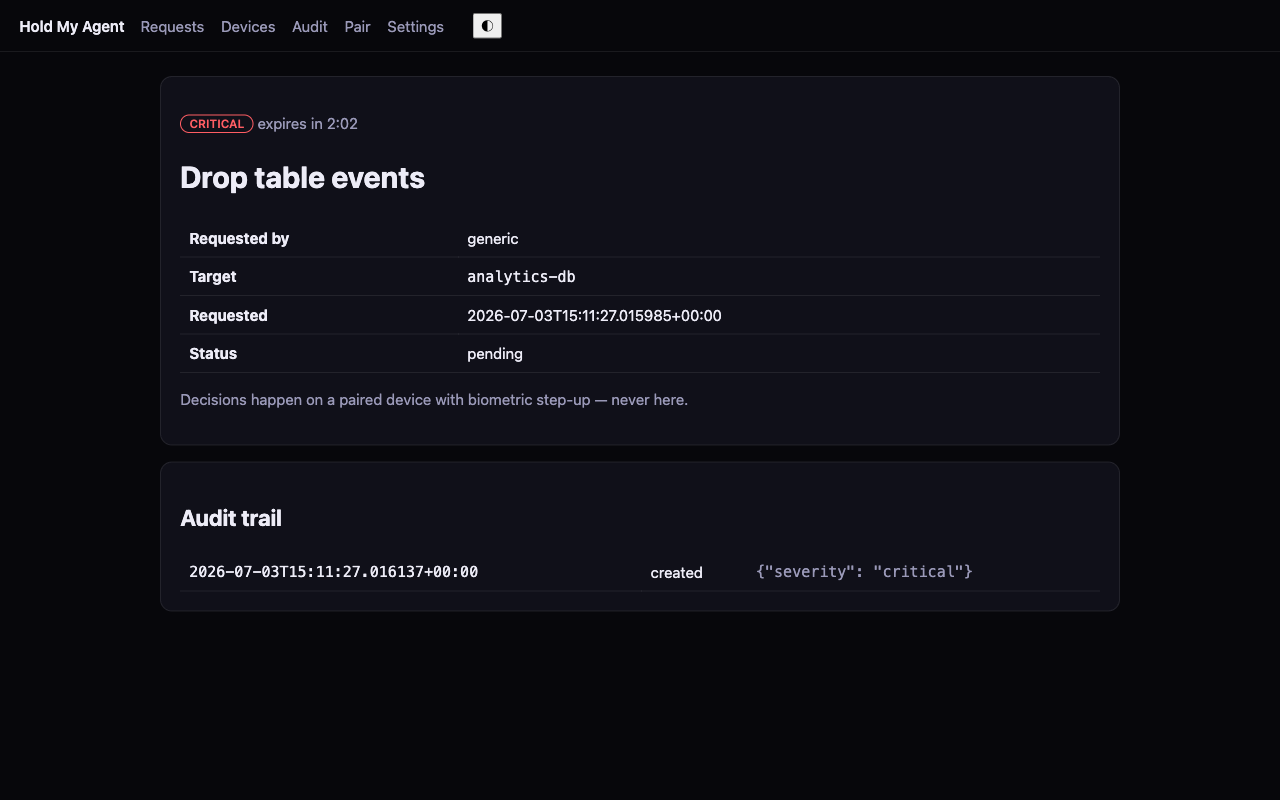
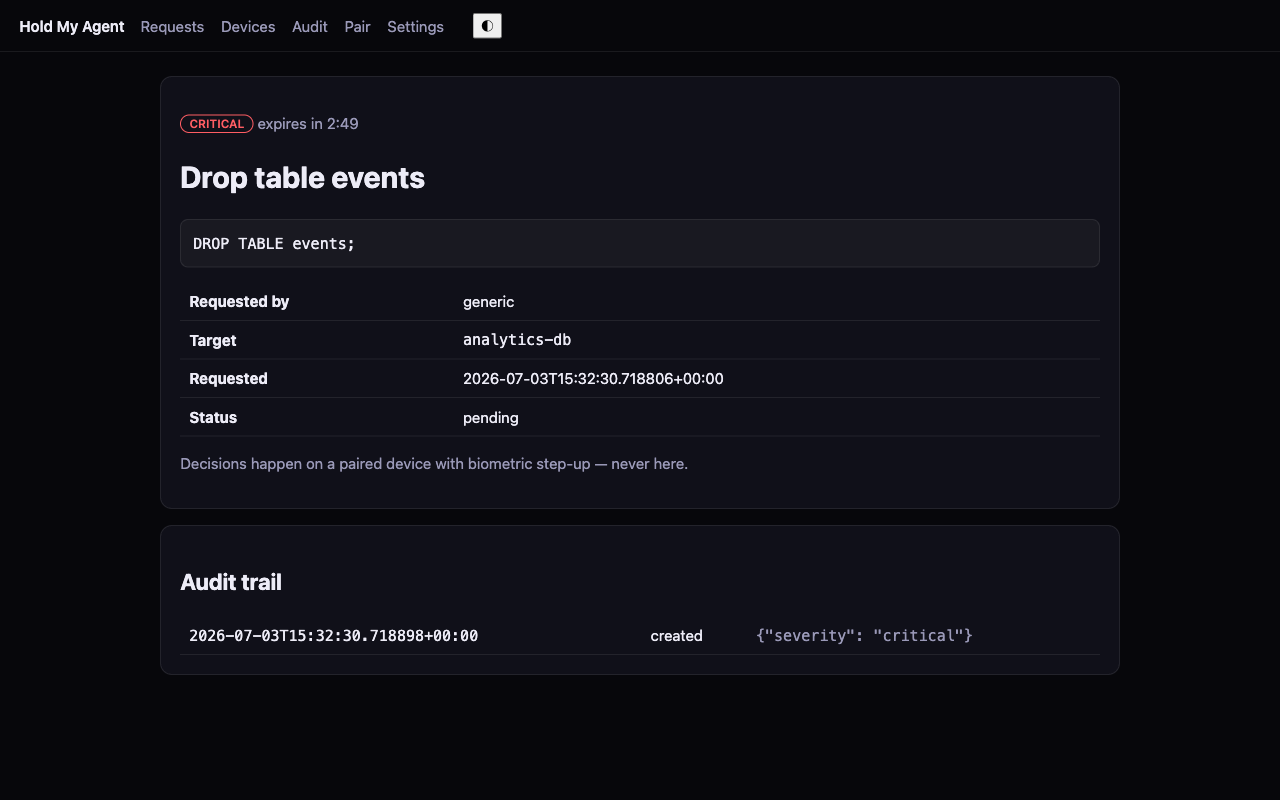
fix(docs): sdk/webhook doc accuracy; authorization slip renders the command description

diff --git a/server/arbiter/web/templates/request_detail.html b/server/arbiter/web/templates/request_detail.html
@@ -5,6 +5,7 @@
      {% if r.status == "pending" %}<span class="muted">expires in
        <span class="countdown" data-expires="{{ r.expires_at }}"></span></span>{% endif %}</p>
   <h1>{{ r.title }}</h1>
+  {% if r.description %}<pre class="mono">{{ r.description }}</pre>{% endif %}
   {% if r.payload %}<pre class="mono">{{ r.payload | tojson(indent=2) }}</pre>{% endif %}
   <table>
     <tr><th>Requested by</th><td>{{ r.action_type }}</td></tr>

diff --git a/server/tests/test_dashboard.py b/server/tests/test_dashboard.py
@@ -62,9 +62,11 @@ def test_requests_page_lists_and_fragment(client, agent_headers):
 def test_request_detail_slip(client, agent_headers):
     _login(client)
     rid = client.post("/v1/requests", headers=agent_headers,
-                      json={"title": "Deploy", "target": "prod-cluster"}).json()["id"]
+                      json={"title": "Deploy", "target": "prod-cluster",
+                            "description": "DROP TABLE events;"}).json()["id"]
     page = client.get(f"/dashboard/requests/{rid}")
     assert "prod-cluster" in page.text and "created" in page.text  # audit inline
+    assert "DROP TABLE events;" in page.text  # description = the gated command, on the slip
     assert "Approve" not in page.text and "Deny" not in page.text  # view-only
 
 def test_devices_rename_and_delete(client, app_headers):

diff --git a/docs/sdk.md b/docs/sdk.md
@@ -33,7 +33,7 @@ timeout is hit. Returns one of `"approved"`, `"denied"`, `"expired"`.
 | Parameter | Default | Meaning |
 |---|---|---|
 | `title` | *(required)* | Short summary shown in the dashboard and any push notification. |
-| `description` | `""` | Longer detail — e.g. the actual command being gated. Shown on the request's detail page. |
+| `description` | `""` | Longer detail — e.g. the actual command being gated. Rendered as a command block on the request's detail page (the authorization slip), and used as the body of APNs/ntfy push notifications. |
 | `severity` | `"medium"` | One of `"low"`, `"medium"`, `"high"`, `"critical"`. Drives notification priority and which paired devices get notified (per-device `min_severity`). |
 | `target` | `None` | Free-text identifier of what's being acted on — a hostname, table, PR, cluster. Shown as its own column/field in the dashboard. |
 | `ttl_seconds` | `300` | How long the request stays `pending` before the server auto-expires it. |
@@ -75,10 +75,31 @@ client = ArbiterClient(
 decision = client.request_approval("Restart api service", severity="medium", target="hermes")
 ```
 
-Same parameter names and the same fail-closed contract (`"denied"` on any
-error) as the module-level `request_approval` function; construct it once
-and call `request_approval` on it repeatedly rather than reconstructing a
-client per call.
+The method's actual signature:
+
+```python
+def request_approval(
+    self,
+    title,
+    description="",
+    action_type="generic",
+    payload=None,
+    severity="medium",
+    ttl=300,
+    target=None,
+    poll_interval=2,
+    timeout=None,
+) -> str: ...
+```
+
+Same fail-closed contract (`"denied"` on any error) as the module-level
+`request_approval` function, but note two differences before copy-pasting
+between the two: the TTL parameter here is named **`ttl`, not
+`ttl_seconds`**, and there is no environment-variable fallback — the
+server URL and agent token are passed explicitly to the constructor
+(`base_url`, `agent_token`). Construct the client once and call
+`request_approval` on it repeatedly rather than reconstructing a client
+per call.
 
 ## Configuration
 

diff --git a/docs/webhooks.md b/docs/webhooks.md
@@ -55,10 +55,20 @@ A non-empty `url` is what turns webhooks on (`hma status` shows
   (`status` is `expired`).
 
 Delivery target: the global `[notify.webhook] url` above receives all
-three event types. If an individual request also set a `callback_url`
-when it was created (the `hold_sdk`/API `callback_url` field), that URL
-additionally receives `request.decided`/`request.expired` — but not
-`request.created` — for that one request. Both deliveries use the same
+three event types. An individual request can additionally set a
+`callback_url` when it's created — that URL then also receives
+`request.decided`/`request.expired` (but not `request.created`) for that
+one request. `callback_url` is an API-level field on `POST /v1/requests`;
+`hold_sdk.request_approval` doesn't expose it (yet), so set it with a
+direct API call:
+
+```bash
+curl -X POST "$HMA_SERVER_URL/v1/requests" -H "Authorization: Bearer $HMA_AGENT_TOKEN" \
+  -H 'content-type: application/json' \
+  -d '{"title":"Deploy","severity":"high","callback_url":"https://agent.example/cb"}'
+```
+
+Both the global URL and a per-request `callback_url` use the same
 `[notify.webhook] secret` for signing.
 
 ## Verifying the signature

diff --git a/docs/quickstart.md b/docs/quickstart.md
@@ -20,7 +20,9 @@ hma init
 ```
 
 This writes `~/.config/holdmyagent/config.toml` (mode `0600`) with four
-freshly generated secrets and prints them once:
+freshly generated secrets and prints the three you'll actually handle
+once (the fourth, `session_secret`, stays in the file — the server uses
+it internally to sign dashboard session cookies):
 
 ```
 Wrote /home/you/.config/holdmyagent/config.toml